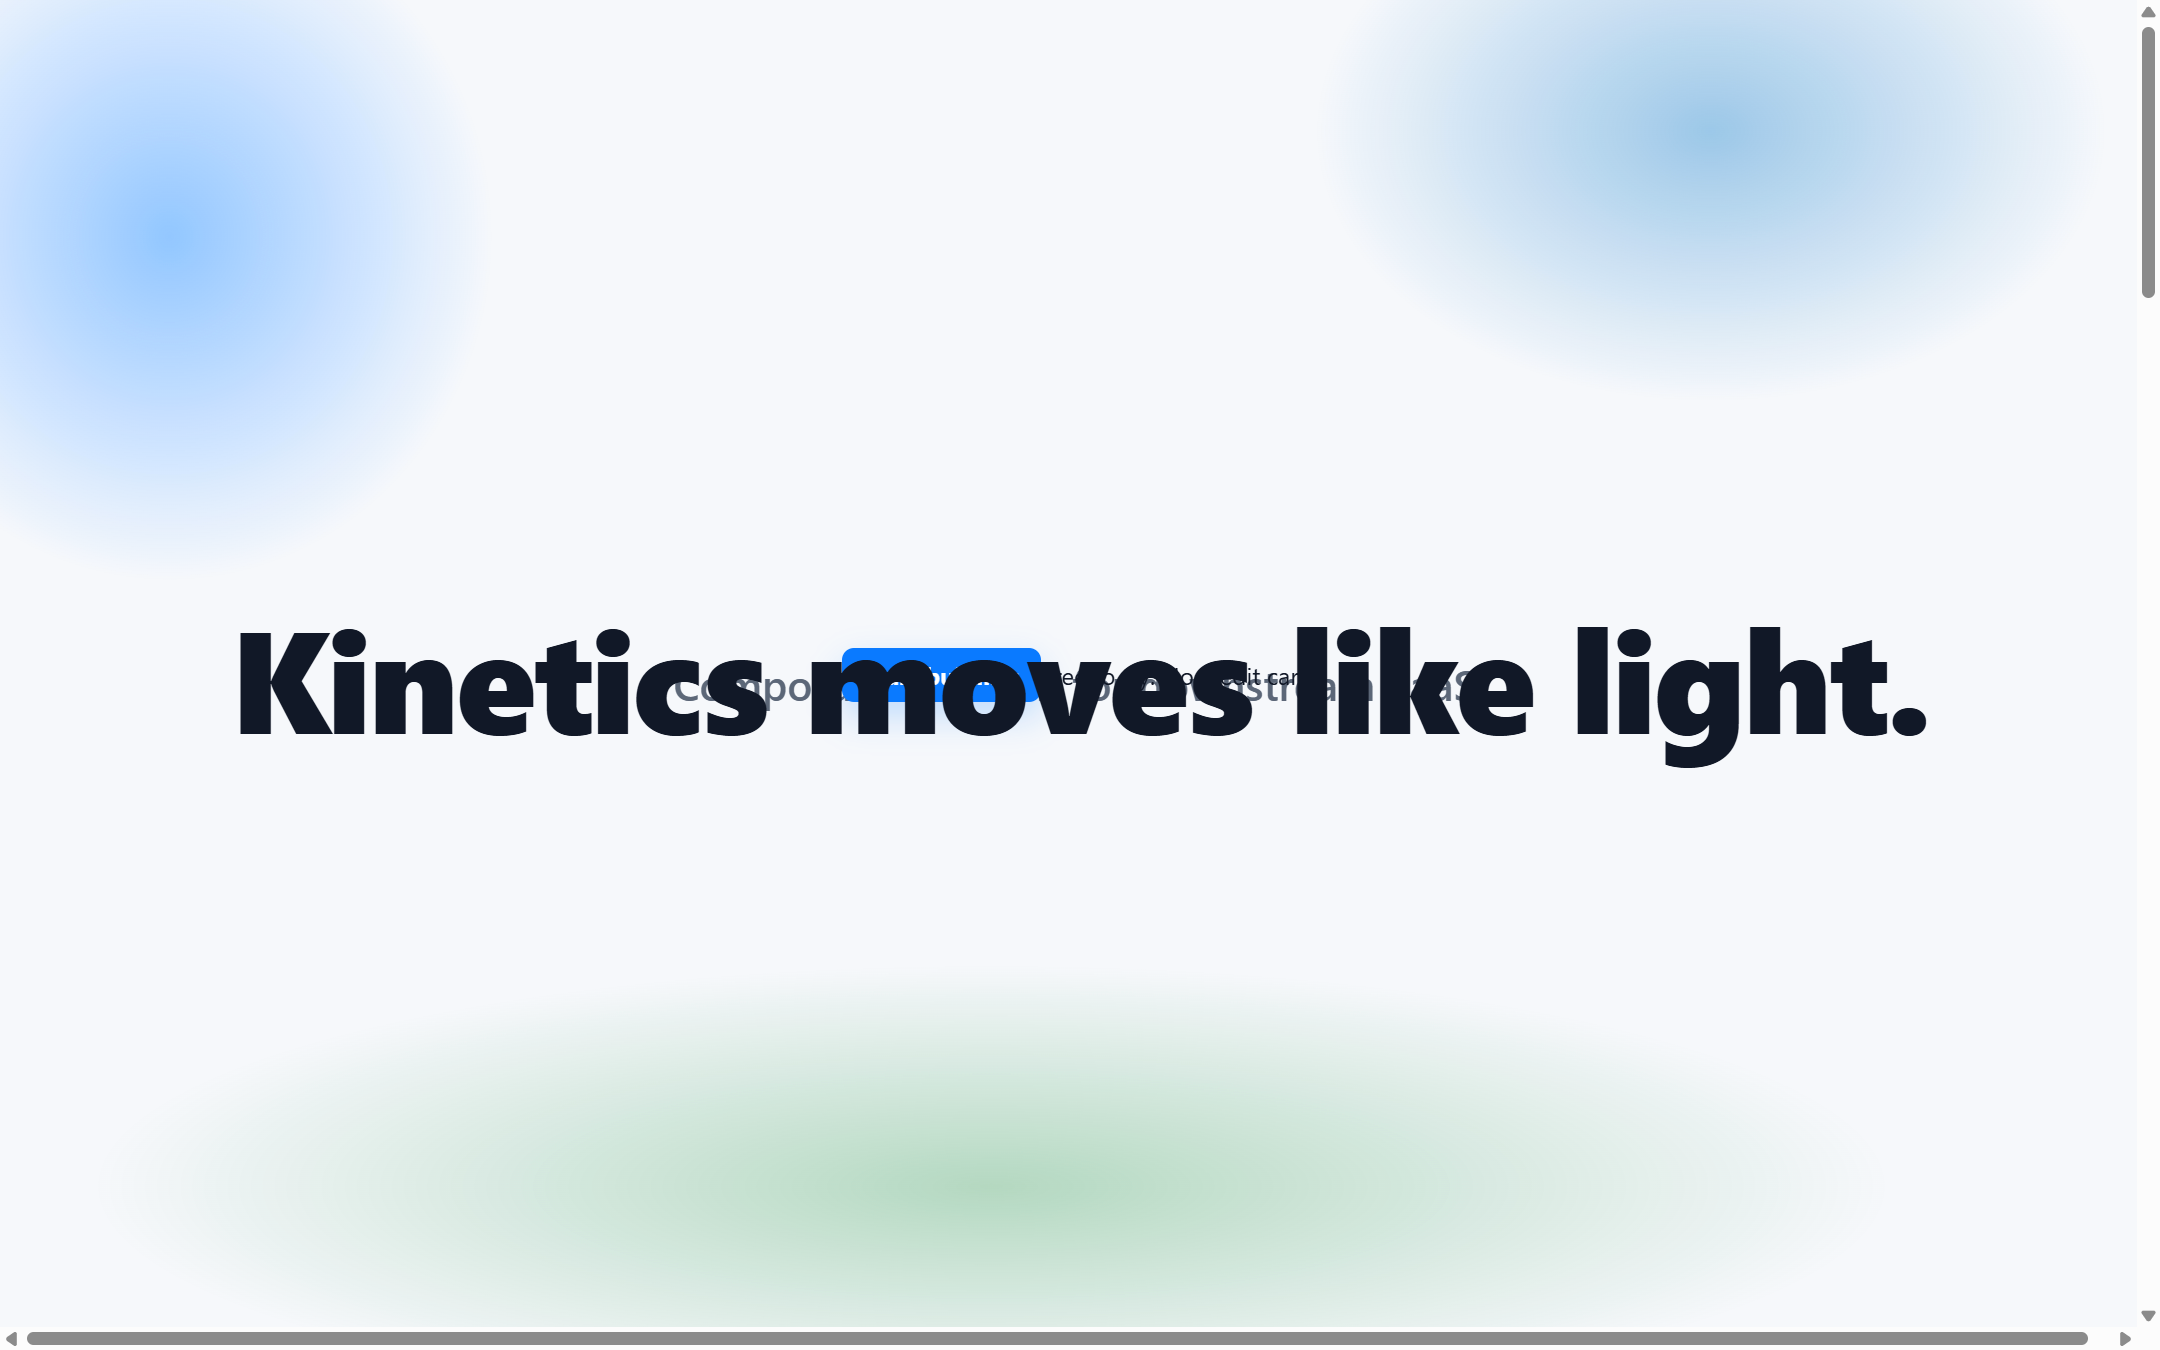
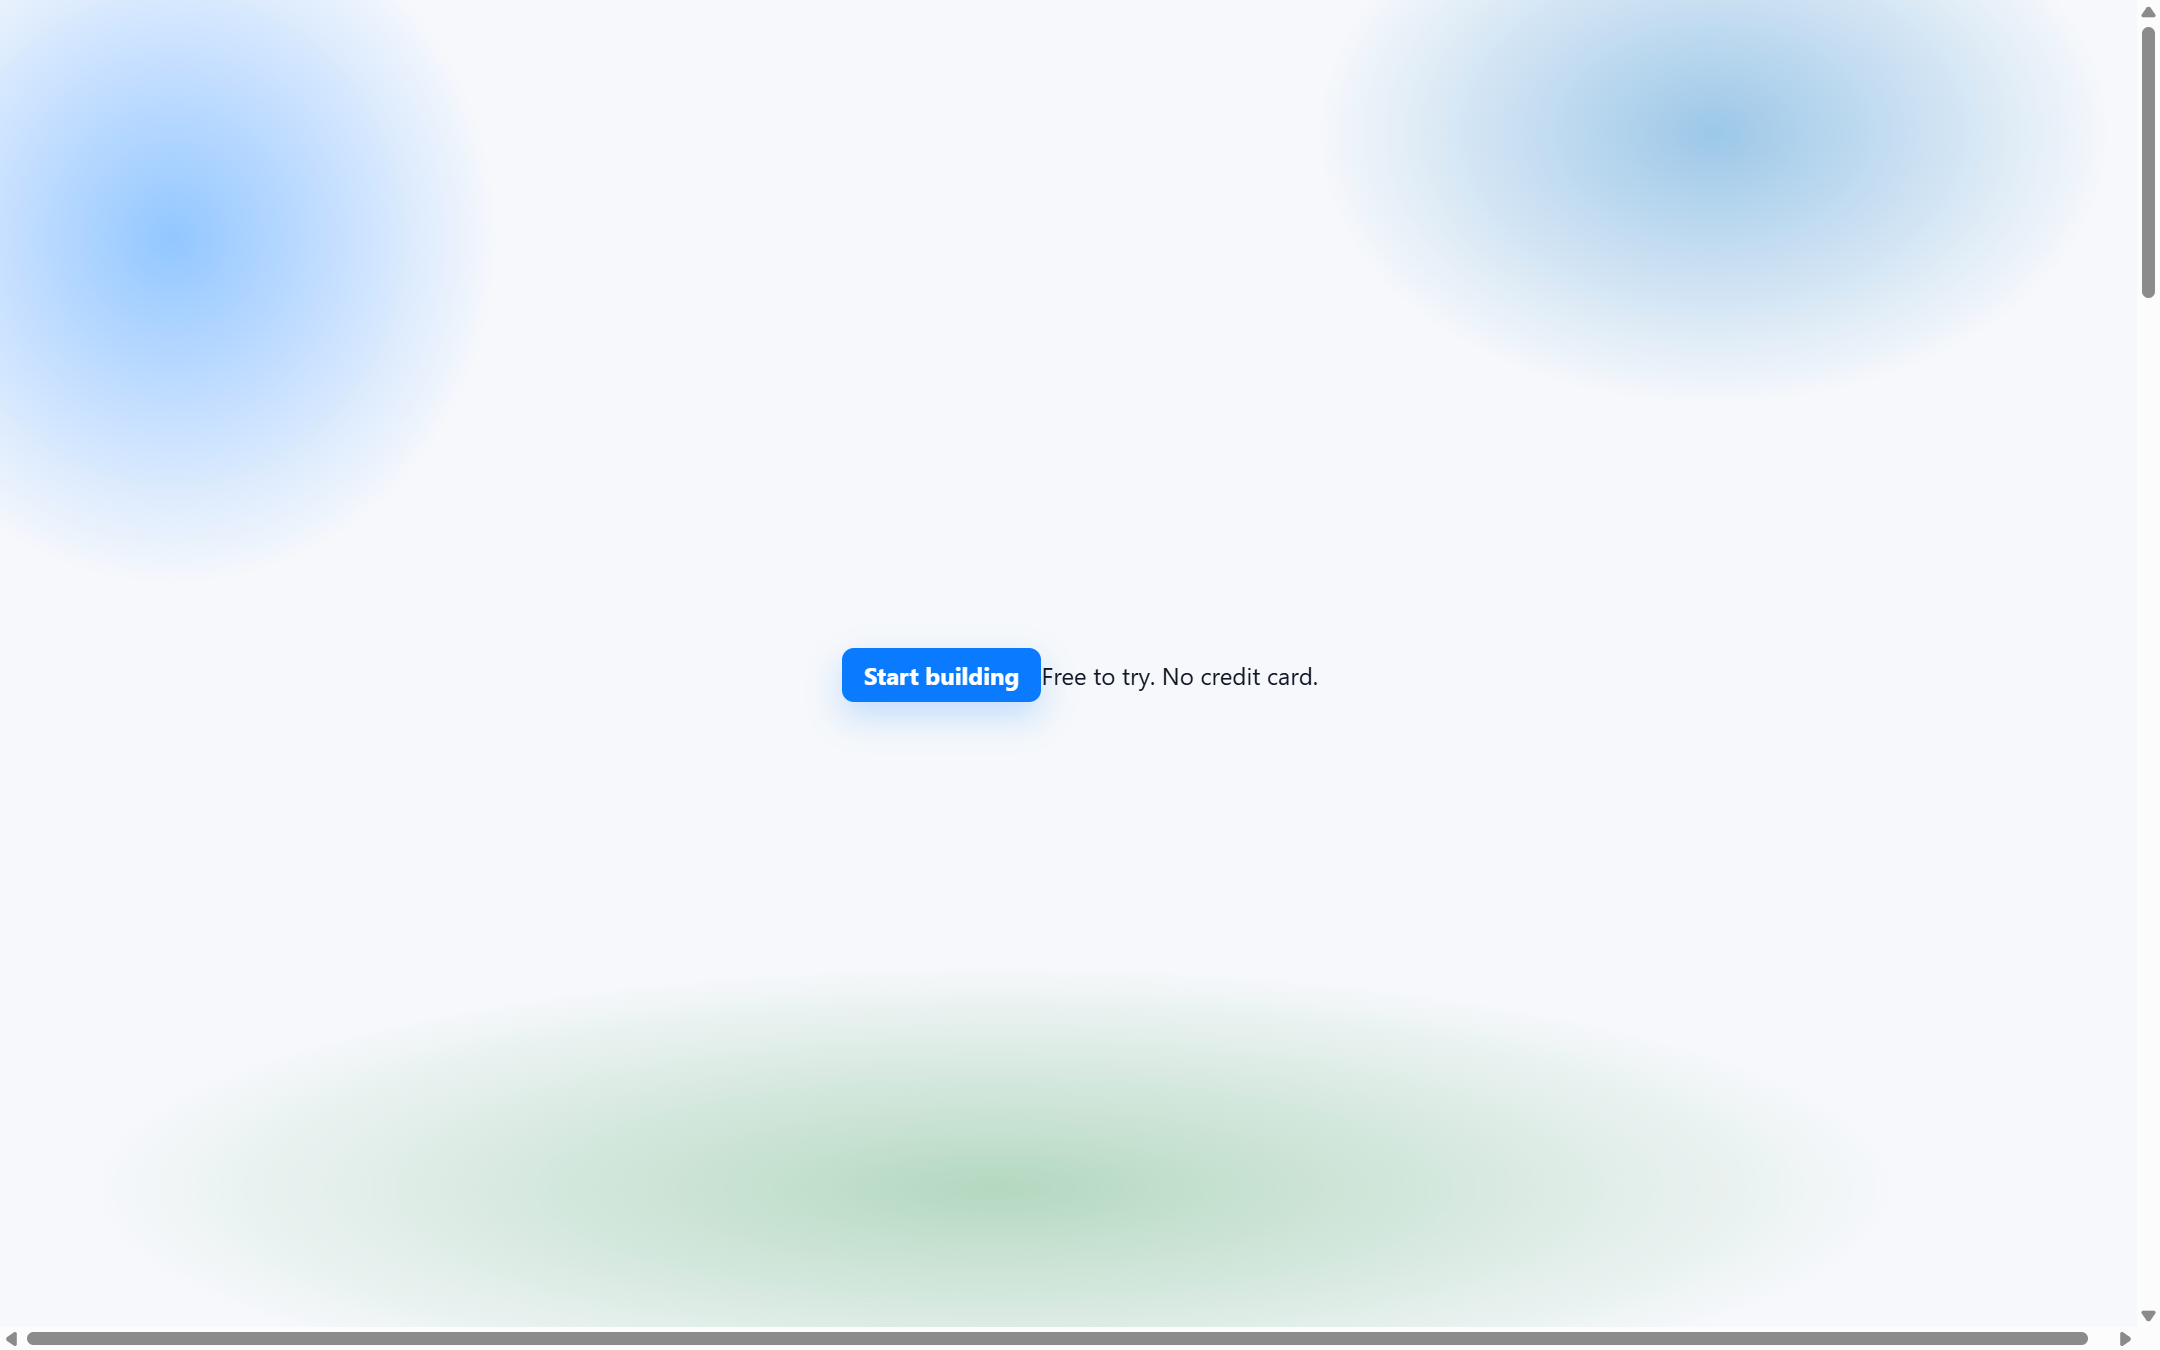
fix(scenes): drop HoldEnd from ProductIntroScene title and body clips
When the scene is hosted full-bleed (flagship hero) and clips are
grid-stacked in the same centre cell, HoldEnd on title + body + CTA
made all three render on top of each other at settled state. Drop
HoldEnd from title and body so the settled composition is just the
CTA pulse over the host's backdrop. The gallery preview tile still
plays the full timeline; only the persistent post-play state changes.

Closes the residual visual gap from the previous flagship recapture.

Changed region(s): [[0.0931, 0.4667, 0.8995, 0.5911]]

diff --git a/examples/component-gallery/src/previews/scenes/product_intro.rs b/examples/component-gallery/src/previews/scenes/product_intro.rs
@@ -24,7 +24,13 @@ pub fn ProductIntroScene(
             autoplay: Some(true),
             controls: Some(controls),
 
-            Clip { start_ms: 0.0, duration_ms: 2_400.0, fill: ClipFill::HoldEnd,
+            // Title and body intentionally do NOT use HoldEnd — once the
+            // hero film plays through, the settled-state composition is
+            // just the CTA pulse (`Start building`) overlaid on the
+            // ambient backdrop. Holding the title and body too would
+            // stack three centred elements in the same grid cell when
+            // the scene is hosted full-bleed (e.g., the flagship hero).
+            Clip { start_ms: 0.0, duration_ms: 2_400.0,
                 KineticText {
                     id: "intro-title",
                     text: "Kinetics moves like light.".to_string(),
@@ -32,7 +38,7 @@ pub fn ProductIntroScene(
                     class: "scene-hero-title".to_string(),
                 }
             }
-            Clip { start_ms: 800.0, duration_ms: 2_400.0, fill: ClipFill::HoldEnd,
+            Clip { start_ms: 800.0, duration_ms: 2_400.0,
                 KineticText {
                     id: "intro-body",
                     text: "Composable motion for downstream SaaS.".to_string(),